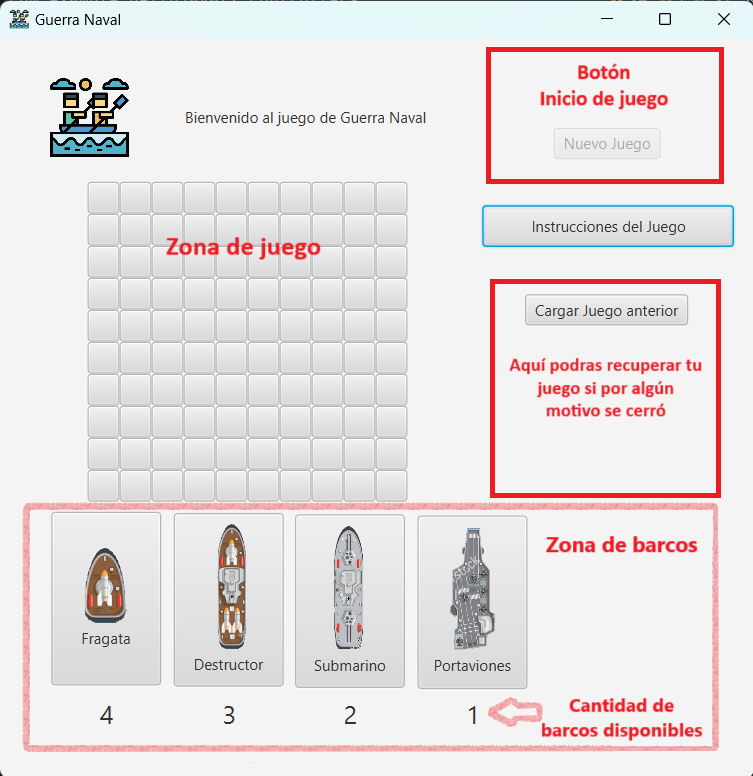
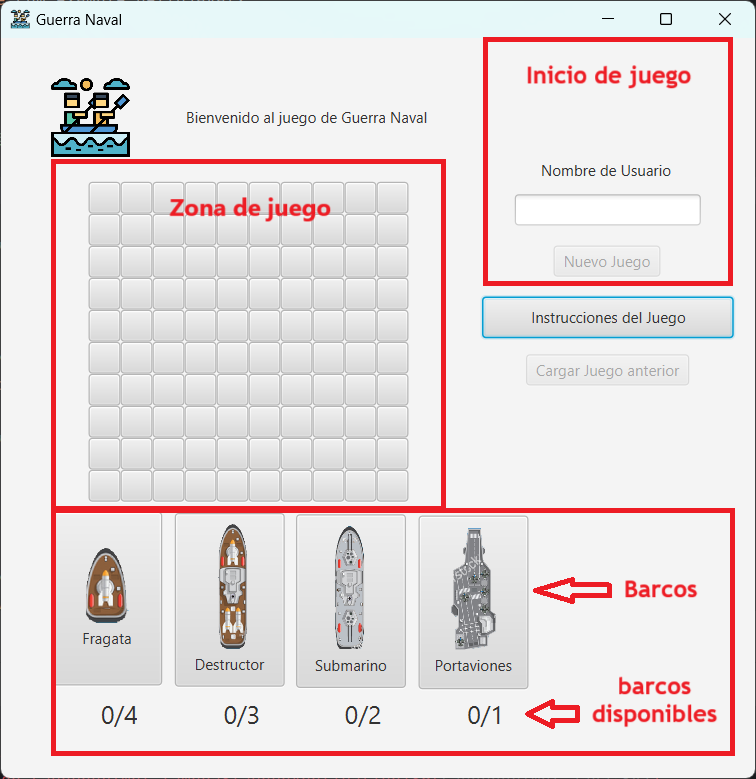
refactor(): instructions

diff --git a/src/main/resources/com/example/hellojavafx/instrucciones.html b/src/main/resources/com/example/hellojavafx/instrucciones.html
@@ -16,18 +16,21 @@
                 </div>
                 <h5>
                     Guerra Naval es un juego donde se disputa una guerra entre dos flotas navales. Cada una tendrá 10 barcos disponibles para la batalla. 
-                    Antes de iniciar el juego, deberás ubicar tus barcos en la zona de juego.<br><br>
+                    Antes de iniciar el juego, deberás registrar tu nombre y ubicar tus barcos en la zona de juego.<br><br>
                 </h5>
                 <div class="d-flex justify-content-center">
                     <img src="images/pantalla_principal.png" class="img-fluid me-4" style="width: 550px; height: 600px;">
                 </div>
                 <div class="mt-4">
                     <h2>Paso 1: Ubicación de los barcos</h2>
-                    <h5>Los barcos se ubican dando click encima de la imagen 
+                    <h5>Los barcos se seleccionan dando click encima de la imagen 
                         y llevando el cursor hasta la posición donde quieras ubicarlos. 
                         Luego, haz clic para confirmar la ubicación. si desea girar el 
                         barco deberas dar click en la misma imagen, el juego solo te dejará
-                        colocar la cantidad barcos que aparecen debajo de cada imagen.<br><br><br>
+                        colocar la cantidad barcos que aparecen debajo de cada imagen, si intentas
+                        adicionar otro barco mas de los permitidos o colocar el barco por fuera de 
+                        la zona de juego te mostrara un aviso de advertencia.<br><br><br>
+
                     </h5>
                     
                     <div class="d-flex justify-content-center">
@@ -38,22 +41,46 @@
                 <div class="mt-4">
                     <h2>Paso 2</h2>
                     <h5>
-                        xxxxxx
+                        Una vez ubicados todos los barcos en la zona de juego se habilitará el boton "Nuevo juego"
+                        e inmediatamente se abriá otra ventana en la cual podras iniciar el juego contra la máquina, 
+                        este tendra sus 10 navios escondidos, tendras el boton "Ver tablero de la maquina" el cual te permitirá
+                        los barcos de la máquina.<br><br>
                     </h5>
                     <div class="d-flex justify-content-center">
                         <img src="images/paso2.png" class="img-fluid me-3" style="width: 350px; height: 400px;">
-                        <img src="images/paso2.png" class="img-fluid" style="width: 350px; height: 400px;">
+                        <img src="images/paso22.png" class="img-fluid" style="width: 550px; height: 400px;">
                     </div>
                 </div>
                 <div class="mt-4">
                     <h2>Paso 3</h2>
                     <h5>
-                        xxxxxx
+                        El juego inicia con tu turno, tendras la posibilidad de disparar primero, para esto deberás dar click en alguna
+                        de las celdas donde creas que hay un barco de la maquina. si en la posicion que elegiste hay un barco la celda se marcara con un fuego
+                        si no, se marcará con una X, algunos de estos barcos ocupan varias celdas, estas celdas contienen parte de barco
+                        lo cual tendras que acertar a todas para poder destruirlo por completo.<br><br>
                     </h5>
                     <div class="d-flex justify-content-center">
-                        <img src="images/paso1.png" class="img-fluid me-3" style="width: 350px; height: 400px;">
-                        <img src="images/paso2.png" class="img-fluid" style="width: 350px; height: 400px;">
+                        <img src="images/paso3.png" class="img-fluid me-3" style="width: 550px; height: 400px;">
                     </div>
+                </div>
+                <div class="mt-4">
+                    <h2>Paso 4</h2>
+                    <h5>
+                        Dispara buscando los barcos de la máquina y la maquina buscará tus barcos.<br><br>
+                    </h5>
+                    <div class="d-flex justify-content-center">
+                        <img src="images/paso4.png" class="img-fluid me-3" style="width: 550px; height: 400px;">
+                      
+                    </div>
+                    <div class="mt-4">
+                        <h2>Paso 5</h2>
+                        <h5>
+                            Una vez el jugador haya destruido todos los barcos de la máquina o la máquina haya destruido tus barcos
+                            aparecerá un mensaje informando quien ha ganado.<br><br>
+                        </h5>
+                        <div class="d-flex justify-content-center">
+                            <img src="images/paso5.png" class="img-fluid me-3" style="width: 550px; height: 400px;">
+                        </div>
                 </div>
             </div>
         </div>
